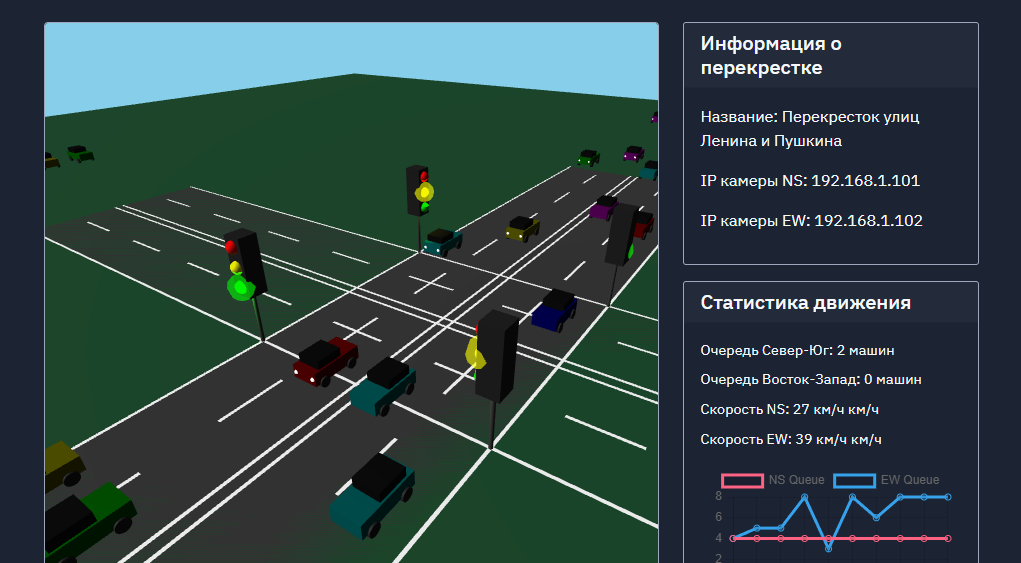
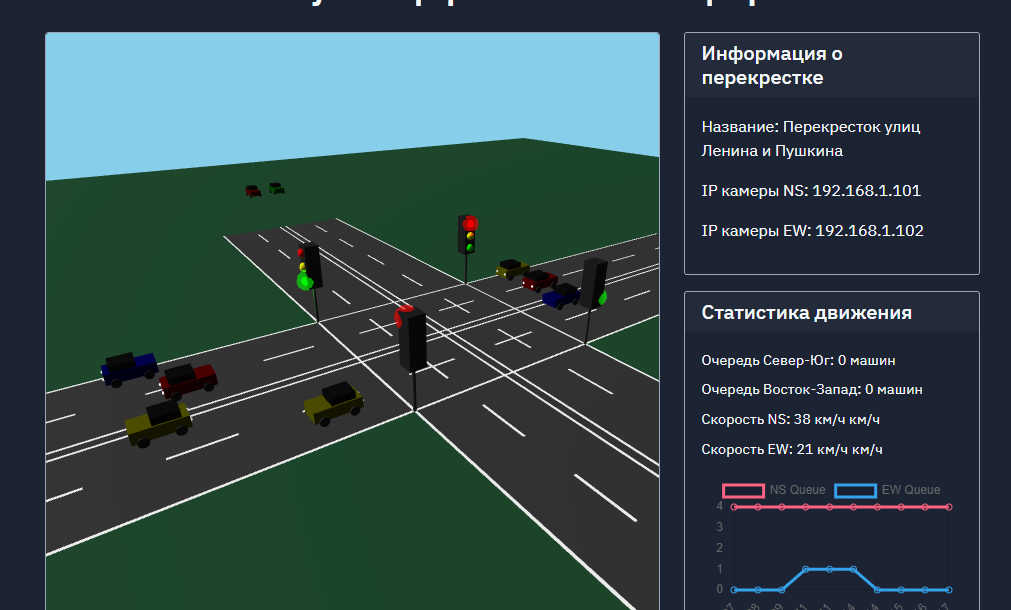
Agent query: Проверьте работу симулятора: 1) Обновление данных с камер, 2) Движение машин, 3) Работа светофоров

diff --git a/static/js/simulation.js b/static/js/simulation.js
@@ -51,11 +51,12 @@ class TrafficSimulation {
                 })
             });
             
-            if (!response.ok) {
-                throw new Error(`HTTP error! status: ${response.status}`);
+            const data = await response.json();
+            
+            if (data.error) {
+                console.warn('Camera data warning:', data.error);
             }
             
-            const data = await response.json();
             this.updateTrafficData(data);
             
             // Update vehicle spawning based on traffic data
@@ -66,7 +67,13 @@ class TrafficSimulation {
                 window.controller.updateTrafficLights(data);
             }
         } catch (error) {
-            console.error('Error fetching camera data:', error);
+            console.warn('Error fetching camera data:', error);
+            // Use default values if there's an error
+            const defaultData = {
+                ns: { count: 1, waiting: 0, avgSpeed: 0.6 },
+                ew: { count: 1, waiting: 0, avgSpeed: 0.6 }
+            };
+            this.updateTrafficData(defaultData);
         }
     }
 
@@ -315,8 +322,9 @@ class TrafficSimulation {
     }
 
     checkTrafficLights(vehicle) {
-        const STOP_LINE = 35;
+        const STOP_LINE = 20; // Уменьшено расстояние до стоп-линии с 35 до 20
         const INTERSECTION_ZONE = 10;
+        const SLOW_DOWN_DISTANCE = 40; // Уменьшено расстояние начала торможения
         
         const position = vehicle.mesh.position;
         const inIntersection = Math.abs(position.x) < INTERSECTION_ZONE && 
